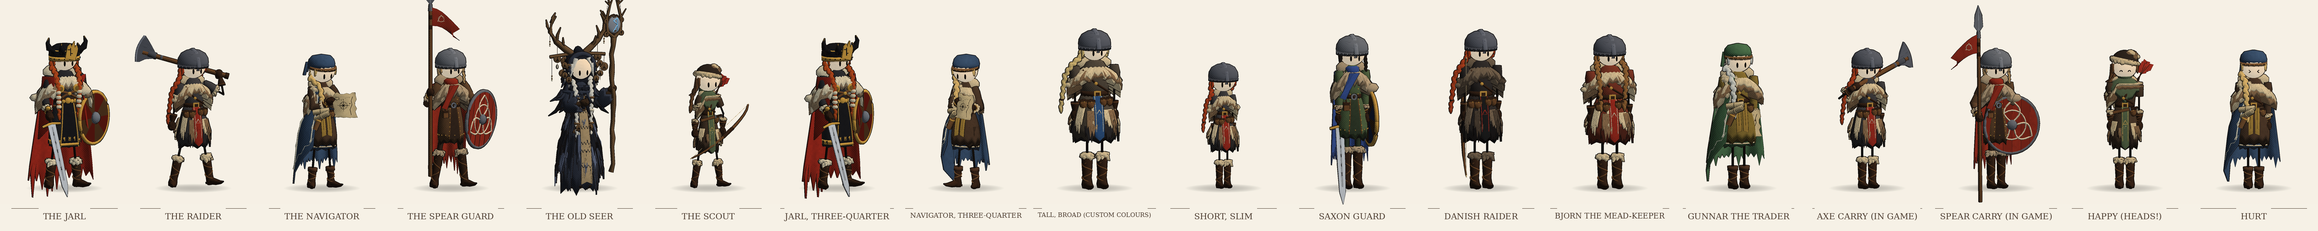
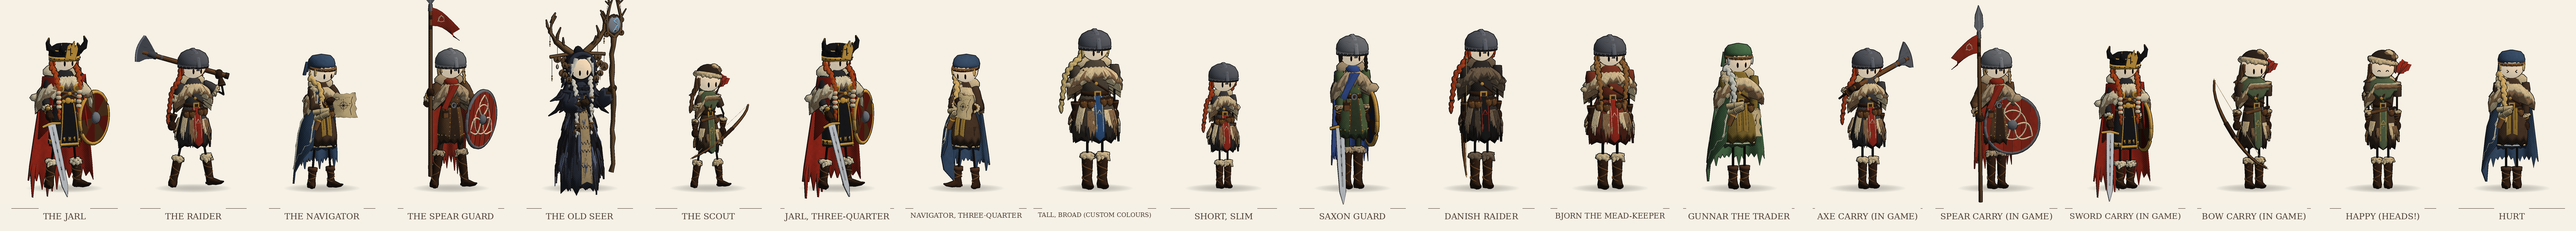
Carry poses for swords and bows
A sword hangs point-down from a loose fist, angled out and forward with its
flat turned to show (a new roll about the haft), like the Jarl's; a bow is
held low at the side, slanting. Every weapon now has an in-game carry pose;
the lineup shows the sword and bow carries; a test checks the sword hangs
point-down.

Claude-Session: https://claude.ai/code/session_01SCdejJ1UF8RUxAkkFhZXGU

diff --git a/OdinsCoin/Assets/Scripts/Characters/NpcHeroes.cs b/OdinsCoin/Assets/Scripts/Characters/NpcHeroes.cs
@@ -135,7 +135,8 @@ namespace OdinsCoin
         public static void AxeCarry(VikingBuilder.Parts parts, float amount) { Carry(parts, WeaponId.TwoHandAxe, amount); }
 
         /// <summary>How a weapon is carried while walking: upper arm, forearm (local Euler) and the haft's direction in the body.</summary>
-        public struct CarryPose { public Vector3 arm, forearm, haft; public bool set; }
+        public struct CarryPose { public Vector3 arm, forearm, haft; public bool set; /// <summary>Turn about the haft, degrees (to show a blade's flat).</summary>
+            public float roll; }
 
         public static CarryPose CarryFor(WeaponId w)
         {
@@ -145,6 +146,10 @@ namespace OdinsCoin
                 // Long hafts held upright in a fist at chest height, the butt clear of the ground.
                 case WeaponId.Spear: return new CarryPose { set = true, arm = new Vector3(-6f, 0f, 30f), forearm = new Vector3(-50f, 0f, -18f), haft = new Vector3(0.03f, 1f, 0.05f) };
                 case WeaponId.Staff: return new CarryPose { set = true, arm = new Vector3(-6f, 0f, 28f), forearm = new Vector3(-50f, 0f, -16f), haft = new Vector3(0.04f, 1f, 0.08f) };
+                // A sword hangs point-down from a loose fist, angled out and forward like the Jarl's.
+                case WeaponId.Sword: return new CarryPose { set = true, arm = new Vector3(-6f, 0f, 14f), forearm = new Vector3(-24f, 0f, -8f), haft = new Vector3(0.12f, -1f, 0.3f), roll = 90f };
+                // A bow held low at the side, slanting down and back.
+                case WeaponId.Bow: return new CarryPose { set = true, arm = new Vector3(0f, 0f, 10f), forearm = new Vector3(-20f, 0f, 0f), haft = new Vector3(0.35f, 0.75f, -0.4f) };
                 default: return new CarryPose();
             }
         }
@@ -156,7 +161,7 @@ namespace OdinsCoin
             // Upright things turn their flat side (a pennant, a rune stone) out to the right; others face forward.
             Vector3 side = Mathf.Abs(haft.y) > 0.8f ? Vector3.back : Vector3.forward;
             Quaternion inBody = Quaternion.LookRotation(haft, Vector3.Cross(side, haft));
-            return Quaternion.Inverse(Quaternion.Euler(p.arm) * Quaternion.Euler(p.forearm)) * inBody;
+            return Quaternion.Inverse(Quaternion.Euler(p.arm) * Quaternion.Euler(p.forearm)) * inBody * Quaternion.AngleAxis(p.roll, Vector3.forward);
         }
 
         /// <summary>Carry the hero's weapon the way it's meant to be carried (if it has a carry pose).</summary>

diff --git a/tools/preview/HeroPreview.cs b/tools/preview/HeroPreview.cs
@@ -175,6 +175,16 @@ public static class HeroPreview
         carrySpear.rot[Joints.RightForearm] = Quaternion.Euler(spearPose.forearm);
         carrySpear.rot[Joints.Weapon] = HeroPose.WeaponInFist(spearPose);
         shots.Add(new Shot { label = "Spear carry (in game)", model = Full(CharacterSpec.Default(OutfitId.SpearGuard)), pose = carrySpear, yaw = 200f });
+        foreach (var carried in new[] { OutfitId.Jarl, OutfitId.Scout })
+        {
+            var spec = CharacterSpec.Default(carried);
+            var cp = HeroPose.CarryFor(spec.weapon);
+            var pose = new Pose();
+            pose.rot[Joints.RightArm] = Quaternion.Euler(cp.arm);
+            pose.rot[Joints.RightForearm] = Quaternion.Euler(cp.forearm);
+            pose.rot[Joints.Weapon] = HeroPose.WeaponInFist(cp);
+            shots.Add(new Shot { label = HeroChoice.Name(spec.weapon) + " carry (in game)", model = Full(spec), pose = pose, yaw = 200f });
+        }
         // Faces: the dash eyes turn to ^ ^ when happy and > < when hurt.
         shots.Add(new Shot { label = "Happy (heads!)", model = HeroModel.Build(CharacterSpec.Default(OutfitId.Scout)), yaw = 182f, face = Expression.Happy });
         shots.Add(new Shot { label = "Hurt", model = HeroModel.Build(CharacterSpec.Default(OutfitId.Navigator)), yaw = 182f, face = Expression.Hurt });

diff --git a/tools/tests/LogicTests.cs b/tools/tests/LogicTests.cs
@@ -836,6 +836,11 @@ public static class LogicTests
         Check(haft.y > 0.2f && haft.z < -0.3f && haft.x < -0.7f, "the carried axe lies up and back over the shoulder (" + haft + ")");
         Vector3 fist = Quaternion.Euler(HeroPose.AxeCarryArm) * (Vector3.down + Quaternion.Euler(HeroPose.AxeCarryForearm) * Vector3.down);
         Check(fist.y > -0.6f, "the carrying fist comes up towards the shoulder (" + fist + ")");
+        {
+            var sw = HeroPose.CarryFor(WeaponId.Sword);
+            Vector3 down = Quaternion.Euler(sw.arm) * Quaternion.Euler(sw.forearm) * HeroPose.WeaponInFist(sw) * Vector3.forward;
+            Check(down.y < -0.8f, "a carried sword hangs point-down (" + down + ")");
+        }
         foreach (var w in new[] { WeaponId.Spear, WeaponId.Staff })
         {
             var p = HeroPose.CarryFor(w);

diff --git a/OdinsCoin/CHARACTERS.md b/OdinsCoin/CHARACTERS.md
@@ -71,7 +71,7 @@ Alt bygges i kode (ingen modellfiler trengs). `tools/preview/render.sh` tegner e
     - **Speider:** en vifte av piler over skulderen.
     - **Navigatør:** lengre og fyldigere kappe bak.
   - Til runde 8:
-    - Sverd og bue trenger også egne bærestillinger i spillet.
+    - [x] Sverd og bue har egne bærestillinger: sverdet henger med spissen ned og den flate siden ut, og buen holdes lavt og på skrå. Se `docs/heroes.png`.
     - [x] Hanskene er store, med knoker, tommel og en utsvingt mansjett med lys søm, som i bildet.
 - [x] **9. Bevegelse i plaggene:** (se [docs/motion.png](docs/motion.png)) kapper, skjørt, fletter, pels og vimpler svinger og henger etter når figuren går, snur og hugger (enkel fysikk med fjærer).
 - [ ] **10. Tegneserie-look på alt:** tusj-kanter på skipet, øyene, trærne, husene og havet, skravur med blyant eller tusj i skyggene, og papirkorn over hele bildet.
